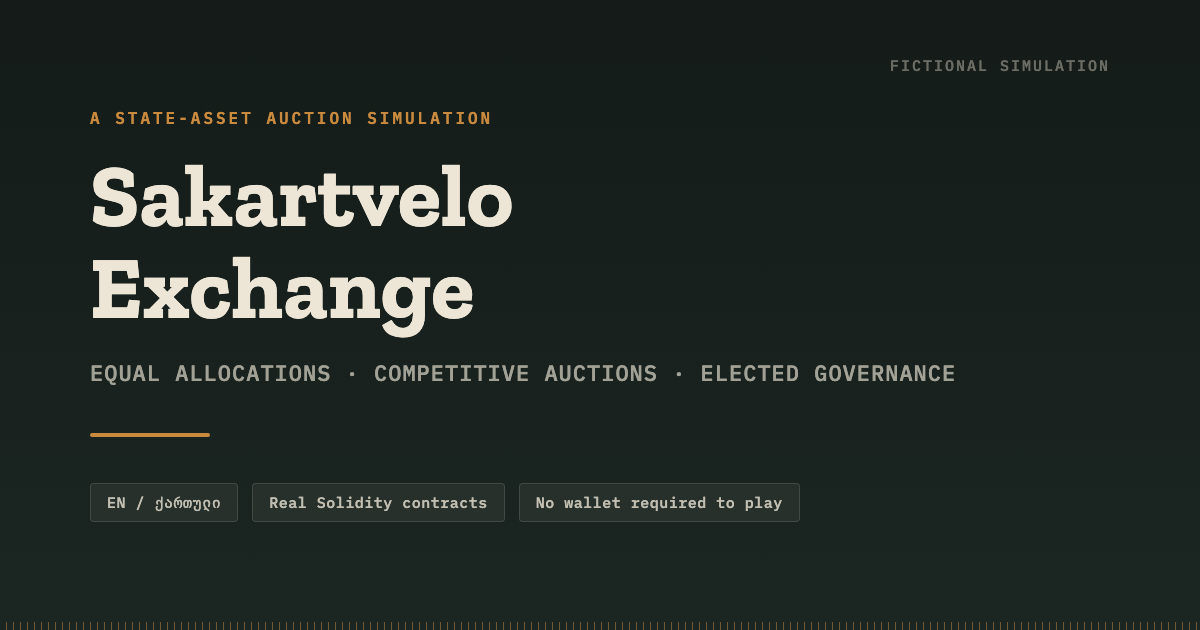
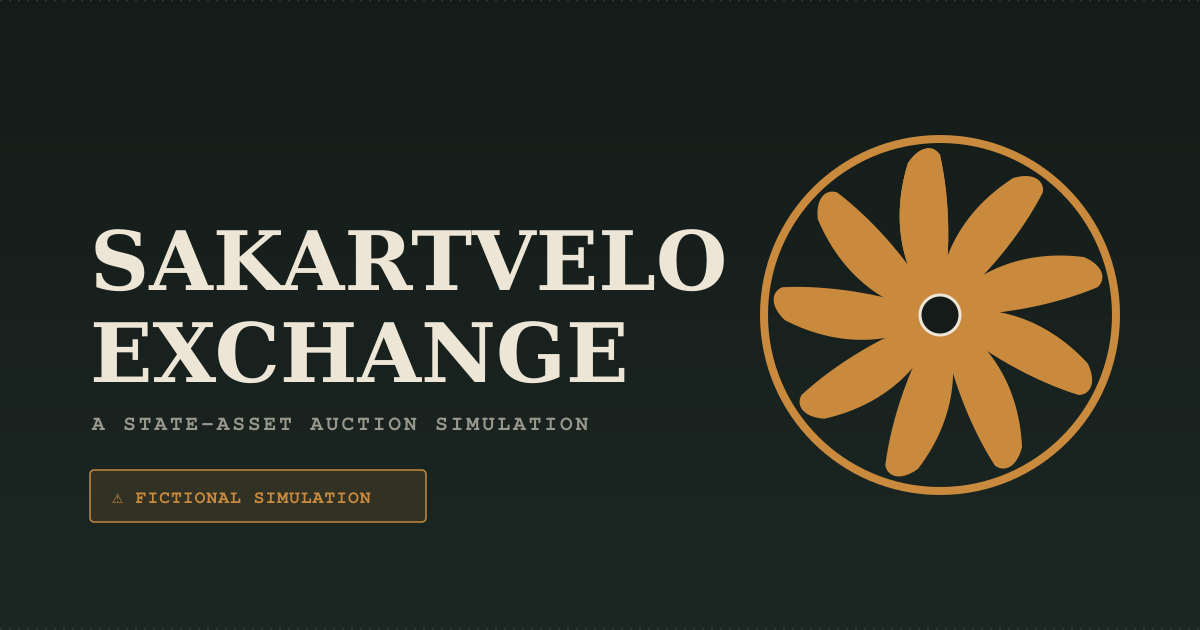
Brand consistency: the nine-eyed sun mark everywhere the brand appears
Extends the finalized favicon mark (ცხრათვალა მზე / nine-eyed sun) to
every other place the brand shows up, not just the browser tab:

- Main app header: icon added next to the SAKARTVELO EXCHANGE wordmark.
- White paper view header: same treatment.
- 'LIVE ON SEPOLIA' real-chain screen header: same treatment.
- OG/social preview image: rebuilt. The old version featured an
  unrelated 'share certificate ticket' graphic with no connection to
  the actual brand mark — replaced with the same nine-wing sun used
  everywhere else, same layout structure and dashed-border certificate
  motif otherwise unchanged.

All using /favicon.svg directly via <img> rather than duplicating the
SVG inline in three places — one source of truth for the mark itself.

Verified: esbuild syntax check on both modified JSX files, both clean.

diff --git a/site/src/App.jsx b/site/src/App.jsx
@@ -575,9 +575,12 @@ export default function App() {
       `}</style>
 
       <div className="flex flex-wrap items-center justify-between gap-y-2 px-4 sm:px-6 py-4" style={{ borderBottom: "1px solid rgba(237,230,214,0.15)" }}>
-        <div>
-          <div className="zilla" style={{ fontSize: 26, fontWeight: 700, letterSpacing: 0.5 }}>SAKARTVELO EXCHANGE</div>
-          <div className="mono" style={{ fontSize: 11, opacity: 0.55, letterSpacing: 1 }}>{t("subtitle")}</div>
+        <div className="flex items-center gap-3">
+          <img src="/favicon.svg" alt="" width="34" height="34" style={{ borderRadius: 8 }} />
+          <div>
+            <div className="zilla" style={{ fontSize: 26, fontWeight: 700, letterSpacing: 0.5 }}>SAKARTVELO EXCHANGE</div>
+            <div className="mono" style={{ fontSize: 11, opacity: 0.55, letterSpacing: 1 }}>{t("subtitle")}</div>
+          </div>
         </div>
         <div className="flex flex-wrap items-center gap-2 sm:gap-4">
           <button
@@ -730,7 +733,10 @@ function WhitePaper({ onBack, lang, setLang }) {
       `}</style>
 
       <div className="flex flex-wrap items-center justify-between gap-y-2 px-4 sm:px-6 py-4" style={{ borderBottom: "1px solid rgba(237,230,214,0.15)" }}>
-        <div className="zilla" style={{ fontSize: 20, fontWeight: 700 }}>SAKARTVELO EXCHANGE</div>
+        <div className="flex items-center gap-2">
+          <img src="/favicon.svg" alt="" width="26" height="26" style={{ borderRadius: 6 }} />
+          <div className="zilla" style={{ fontSize: 20, fontWeight: 700 }}>SAKARTVELO EXCHANGE</div>
+        </div>
         <div className="flex items-center gap-3">
           <button
             onClick={() => setLang(l => (l === "en" ? "ka" : "en"))}

diff --git a/site/src/components/RealExchange.jsx b/site/src/components/RealExchange.jsx
@@ -51,7 +51,10 @@ export default function RealExchange({ onBack }) {
   return (
     <div style={{ fontFamily: "Inter, sans-serif", background: "linear-gradient(180deg,#141B18,#1B2622)", minHeight: "100vh", color: "#EDE6D6" }}>
       <div className="flex items-center justify-between px-6 py-4" style={{ borderBottom: "1px solid rgba(237,230,214,0.15)" }}>
-        <div className="zilla" style={{ fontSize: 20, fontWeight: 700 }}>SAKARTVELO EXCHANGE — LIVE (Sepolia)</div>
+        <div className="flex items-center gap-2">
+          <img src="/favicon.svg" alt="" width="26" height="26" style={{ borderRadius: 6 }} />
+          <div className="zilla" style={{ fontSize: 20, fontWeight: 700 }}>SAKARTVELO EXCHANGE — LIVE (Sepolia)</div>
+        </div>
         <button onClick={onBack} className="mono" style={{ fontSize: 11, background: "rgba(237,230,214,0.08)", border: "none", color: "#EDE6D6", cursor: "pointer", padding: "8px 14px", borderRadius: 3 }}>
           ← BACK TO DEMO
         </button>
